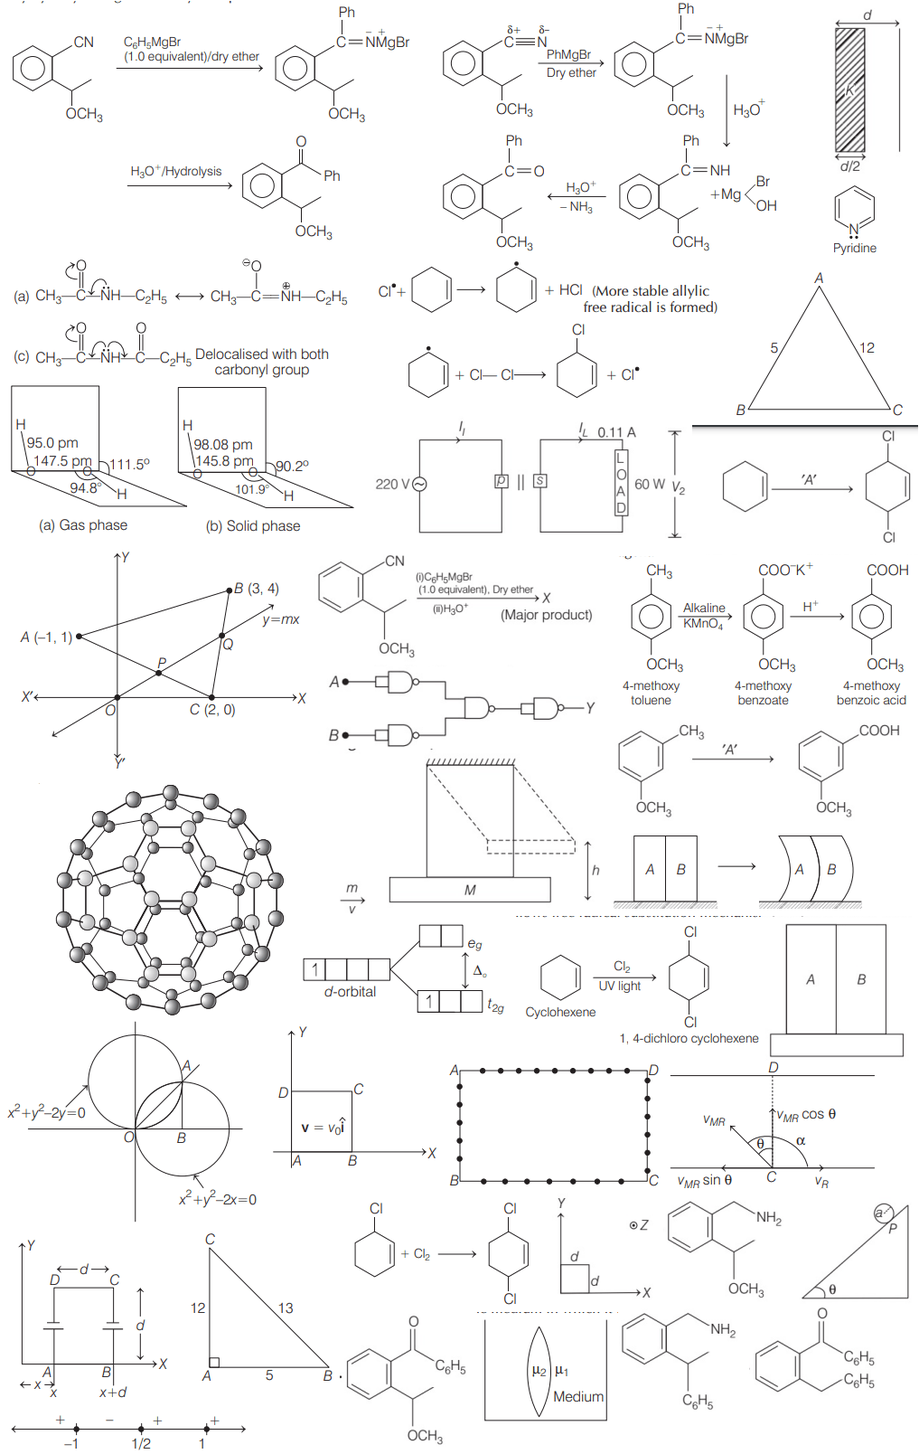
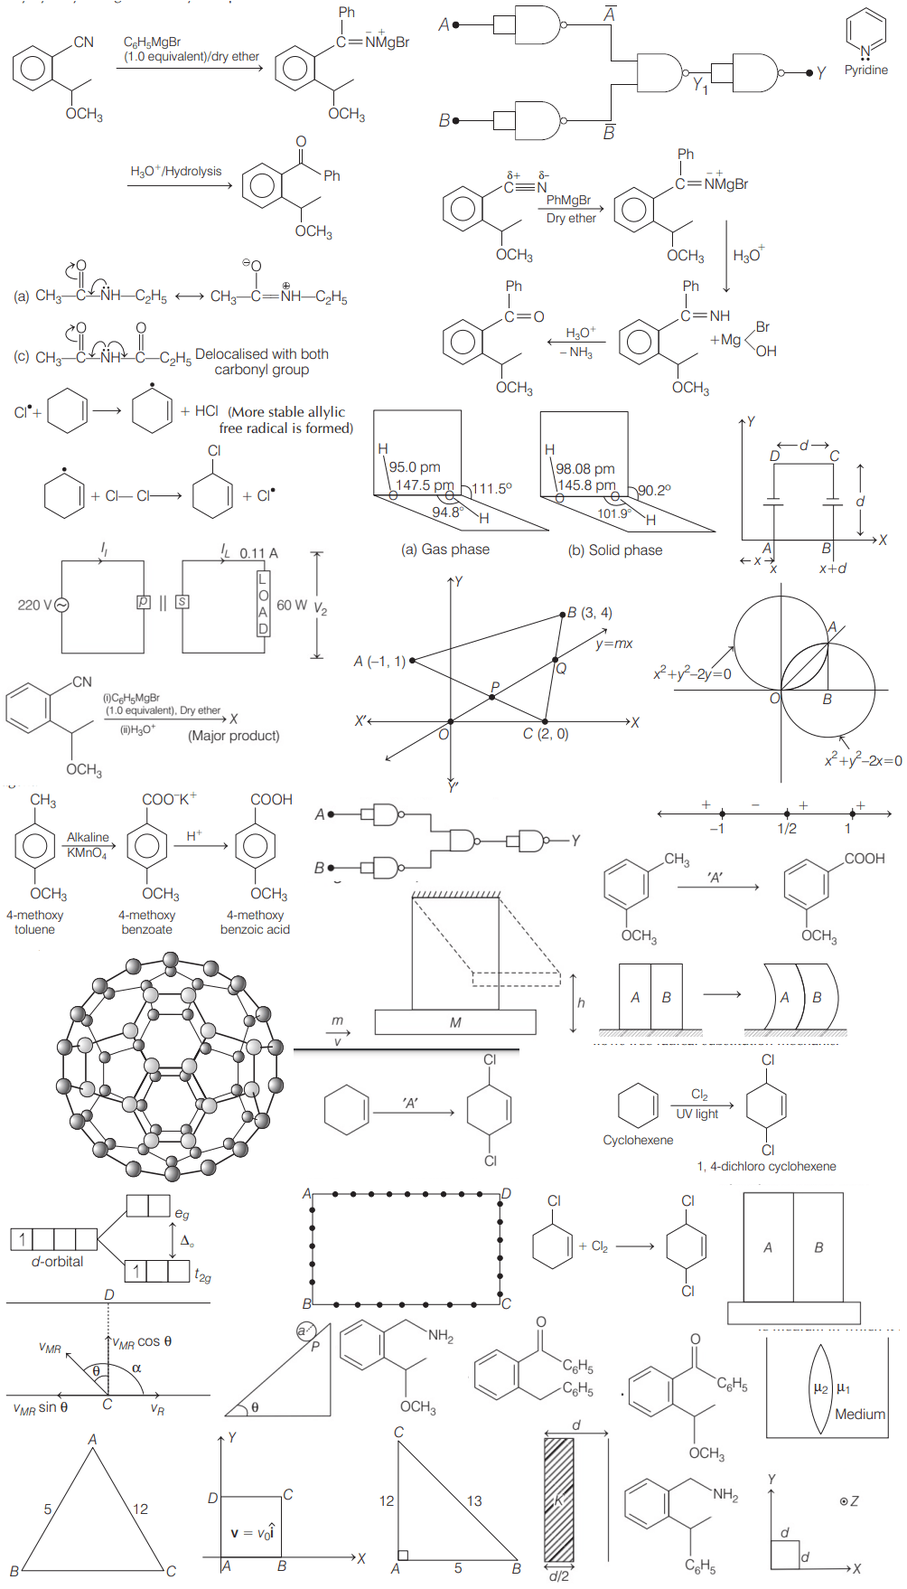
Fixed

diff --git a/img/jee/mains/prev/M2021Mar16_s2.css b/img/jee/mains/prev/M2021Mar16_s2.css
@@ -8,112 +8,115 @@ Responsive: <div class="yourspritesname"></div>
 
 
 .JEEM_16_Mar_S2_1 {max-width:329px; max-height:92px; }
-.JEEM_16_Mar_S2_1::after {content: '\00a0';display: inline-block; width:329px; height:92px; background-position: 50.43604651162791% 48.482849604221634%;background-size: 309.11854103343467% 1747.8260869565217%;background-image: url(M2021Mar16_s2-0.png);padding: 0; }
+.JEEM_16_Mar_S2_1::after {content: '\00a0';display: inline-block; width:329px; height:92px; background-position: 49.03703703703704% 52.94117647058823%;background-size: 305.1671732522796% 1910.8695652173913%;background-image: url(M2021Mar16_s2-0.png);padding: 0; }
 div.JEEM_16_Mar_S2_1::after {max-width:329px; width:100%;height:0;padding: 0 0 27.96352583586626% 0;}
 .JEEM_16_Mar_S2_11sol {max-width:159px; max-height:125px; }
-.JEEM_16_Mar_S2_11sol::after {content: '\00a0';display: inline-block; width:159px; height:125px; background-position: 61.18881118881119% 97.8422117329737%;background-size: 639.622641509434% 1286.4%;background-image: url(M2021Mar16_s2-0.png);padding: 0; }
+.JEEM_16_Mar_S2_11sol::after {content: '\00a0';display: inline-block; width:159px; height:125px; background-position: 99.05325443786982% 90.07960808328231%;background-size: 631.4465408805031% 1406.4%;background-image: url(M2021Mar16_s2-0.png);padding: 0; }
 div.JEEM_16_Mar_S2_11sol::after {max-width:159px; width:100%;height:0;padding: 0 0 78.61635220125787% 0;}
 .JEEM_16_Mar_S2_13 {max-width:166px; max-height:160px; }
-.JEEM_16_Mar_S2_13::after {content: '\00a0';display: inline-block; width:166px; height:160px; background-position: 99.05992949471211% 69.95856353591161%;background-size: 612.6506024096385% 1005%;background-image: url(M2021Mar16_s2-0.png);padding: 0; }
+.JEEM_16_Mar_S2_13::after {content: '\00a0';display: inline-block; width:166px; height:160px; background-position: 94.98806682577566% 81.97747183979975%;background-size: 604.8192771084338% 1098.75%;background-image: url(M2021Mar16_s2-0.png);padding: 0; }
 div.JEEM_16_Mar_S2_13::after {max-width:166px; width:100%;height:0;padding: 0 0 96.3855421686747% 0;}
 .JEEM_16_Mar_S2_13sol {max-width:297px; max-height:100px; }
-.JEEM_16_Mar_S2_13sol::after {content: '\00a0';display: inline-block; width:297px; height:100px; background-position: 93.33333333333333% 60.47745358090186%;background-size: 342.42424242424244% 1608%;background-image: url(M2021Mar16_s2-0.png);padding: 0; }
+.JEEM_16_Mar_S2_13sol::after {content: '\00a0';display: inline-block; width:297px; height:100px; background-position: 92.78642149929279% 63.57056694813028%;background-size: 338.04713804713805% 1758%;background-image: url(M2021Mar16_s2-0.png);padding: 0; }
 div.JEEM_16_Mar_S2_13sol::after {max-width:297px; width:100%;height:0;padding: 0 0 33.67003367003367% 0;}
 .JEEM_16_Mar_S2_17 {max-width:134px; max-height:122px; }
-.JEEM_16_Mar_S2_17::after {content: '\00a0';display: inline-block; width:134px; height:122px; background-position: 67.83691959229898% 88.69448183041723%;background-size: 758.955223880597% 1318.032786885246%;background-image: url(M2021Mar16_s2-0.png);padding: 0; }
+.JEEM_16_Mar_S2_17::after {content: '\00a0';display: inline-block; width:134px; height:122px; background-position: 95.63218390804597% 99.26650366748166%;background-size: 749.2537313432836% 1440.983606557377%;background-image: url(M2021Mar16_s2-0.png);padding: 0; }
 div.JEEM_16_Mar_S2_17::after {max-width:134px; width:100%;height:0;padding: 0 0 91.04477611940298% 0;}
 .JEEM_16_Mar_S2_17sol {max-width:198px; max-height:170px; }
-.JEEM_16_Mar_S2_17sol::after {content: '\00a0';display: inline-block; width:198px; height:170px; background-position: 35.28693528693529% 78.37273991655077%;background-size: 513.6363636363636% 945.8823529411765%;background-image: url(M2021Mar16_s2-0.png);padding: 0; }
+.JEEM_16_Mar_S2_17sol::after {content: '\00a0';display: inline-block; width:198px; height:170px; background-position: 26.17866004962779% 99.24433249370277%;background-size: 507.07070707070704% 1034.1176470588234%;background-image: url(M2021Mar16_s2-0.png);padding: 0; }
 div.JEEM_16_Mar_S2_17sol::after {max-width:198px; width:100%;height:0;padding: 0 0 85.85858585858585% 0;}
 .JEEM_16_Mar_S2_17sola {max-width:199px; max-height:194px; }
-.JEEM_16_Mar_S2_17sola::after {content: '\00a0';display: inline-block; width:199px; height:194px; background-position: 0.12224938875305623% 96.03960396039604%;background-size: 511.05527638190955% 828.8659793814433%;background-image: url(M2021Mar16_s2-0.png);padding: 0; }
+.JEEM_16_Mar_S2_17sola::after {content: '\00a0';display: inline-block; width:199px; height:194px; background-position: 99.1304347826087% 28.580562659846546%;background-size: 504.52261306532665% 906.1855670103092%;background-image: url(M2021Mar16_s2-0.png);padding: 0; }
 div.JEEM_16_Mar_S2_17sola::after {max-width:199px; width:100%;height:0;padding: 0 0 97.48743718592965% 0;}
+.JEEM_16_Mar_S2_1sol {max-width:452px; max-height:160px; }
+.JEEM_16_Mar_S2_1sol::after {content: '\00a0';display: inline-block; width:452px; height:160px; background-position: 84.60144927536231% 0.0625782227784731%;background-size: 222.12389380530973% 1098.75%;background-image: url(M2021Mar16_s2-0.png);padding: 0; }
+div.JEEM_16_Mar_S2_1sol::after {max-width:452px; width:100%;height:0;padding: 0 0 35.39823008849557% 0;}
 .JEEM_16_Mar_S2_2 {max-width:324px; max-height:184px; }
-.JEEM_16_Mar_S2_2::after {content: '\00a0';display: inline-block; width:324px; height:184px; background-position: 50.07215007215007% 58.146067415730336%;background-size: 313.8888888888889% 873.9130434782609%;background-image: url(M2021Mar16_s2-0.png);padding: 0; }
+.JEEM_16_Mar_S2_2::after {content: '\00a0';display: inline-block; width:324px; height:184px; background-position: 48.6764705882353% 61.944091486658195%;background-size: 309.87654320987656% 955.4347826086956%;background-image: url(M2021Mar16_s2-0.png);padding: 0; }
 div.JEEM_16_Mar_S2_2::after {max-width:324px; width:100%;height:0;padding: 0 0 56.79012345679013% 0;}
 .JEEM_16_Mar_S2_22 {max-width:102px; max-height:196px; }
-.JEEM_16_Mar_S2_22::after {content: '\00a0';display: inline-block; width:102px; height:196px; background-position: 99.1256830601093% 0.0708215297450425%;background-size: 997.0588235294117% 820.4081632653061%;background-image: url(M2021Mar16_s2-0.png);padding: 0; }
+.JEEM_16_Mar_S2_22::after {content: '\00a0';display: inline-block; width:102px; height:196px; background-position: 64.85587583148559% 99.93597951344431%;background-size: 984.3137254901961% 896.9387755102041%;background-image: url(M2021Mar16_s2-0.png);padding: 0; }
 div.JEEM_16_Mar_S2_22::after {max-width:102px; width:100%;height:0;padding: 0 0 192.15686274509804% 0;}
 .JEEM_16_Mar_S2_27sol {max-width:240px; max-height:149px; }
-.JEEM_16_Mar_S2_27sol::after {content: '\00a0';display: inline-block; width:240px; height:149px; background-position: 94.72329472329473% 80.46607265250171%;background-size: 423.75% 1079.1946308724832%;background-image: url(M2021Mar16_s2-0.png);padding: 0; }
+.JEEM_16_Mar_S2_27sol::after {content: '\00a0';display: inline-block; width:240px; height:149px; background-position: 0.13089005235602094% 88.62647607209446%;background-size: 418.3333333333333% 1179.8657718120805%;background-image: url(M2021Mar16_s2-0.png);padding: 0; }
 div.JEEM_16_Mar_S2_27sol::after {max-width:240px; width:100%;height:0;padding: 0 0 62.083333333333336% 0;}
 .JEEM_16_Mar_S2_29 {max-width:128px; max-height:120px; }
-.JEEM_16_Mar_S2_29::after {content: '\00a0';display: inline-block; width:128px; height:120px; background-position: 99.10011248593926% 88.97849462365592%;background-size: 794.53125% 1340%;background-image: url(M2021Mar16_s2-0.png);padding: 0; }
+.JEEM_16_Mar_S2_29::after {content: '\00a0';display: inline-block; width:128px; height:120px; background-position: 27.625570776255707% 88.82783882783883%;background-size: 784.375% 1465%;background-image: url(M2021Mar16_s2-0.png);padding: 0; }
 div.JEEM_16_Mar_S2_29::after {max-width:128px; width:100%;height:0;padding: 0 0 93.75% 0;}
 .JEEM_16_Mar_S2_32 {max-width:325px; max-height:125px; }
-.JEEM_16_Mar_S2_32::after {content: '\00a0';display: inline-block; width:325px; height:125px; background-position: 97.83236994219654% 53.000674308833446%;background-size: 312.9230769230769% 1286.4%;background-image: url(M2021Mar16_s2-0.png);padding: 0; }
+.JEEM_16_Mar_S2_32::after {content: '\00a0';display: inline-block; width:325px; height:125px; background-position: 97.34904270986745% 56.82792406613595%;background-size: 308.9230769230769% 1406.4%;background-image: url(M2021Mar16_s2-0.png);padding: 0; }
 div.JEEM_16_Mar_S2_32::after {max-width:325px; width:100%;height:0;padding: 0 0 38.46153846153846% 0;}
 .JEEM_16_Mar_S2_32sol {max-width:329px; max-height:170px; }
-.JEEM_16_Mar_S2_32sol::after {content: '\00a0';display: inline-block; width:329px; height:170px; background-position: 99.27325581395348% 42.767732962447845%;background-size: 309.11854103343467% 945.8823529411765%;background-image: url(M2021Mar16_s2-0.png);padding: 0; }
+.JEEM_16_Mar_S2_32sol::after {content: '\00a0';display: inline-block; width:329px; height:170px; background-position: 0.14814814814814814% 54.722921914357684%;background-size: 305.1671732522796% 1034.1176470588234%;background-image: url(M2021Mar16_s2-0.png);padding: 0; }
 div.JEEM_16_Mar_S2_32sol::after {max-width:329px; width:100%;height:0;padding: 0 0 51.671732522796354% 0;}
 .JEEM_16_Mar_S2_35 {max-width:250px; max-height:144px; }
-.JEEM_16_Mar_S2_35::after {content: '\00a0';display: inline-block; width:250px; height:144px; background-position: 99.86962190352021% 32.10382513661202%;background-size: 406.8% 1116.6666666666667%;background-image: url(M2021Mar16_s2-0.png);padding: 0; }
+.JEEM_16_Mar_S2_35::after {content: '\00a0';display: inline-block; width:250px; height:144px; background-position: 43.10344827586207% 71.87112763320941%;background-size: 401.6% 1220.8333333333333%;background-image: url(M2021Mar16_s2-0.png);padding: 0; }
 div.JEEM_16_Mar_S2_35::after {max-width:250px; width:100%;height:0;padding: 0 0 57.6% 0;}
 .JEEM_16_Mar_S2_35sol {max-width:272px; max-height:154px; }
-.JEEM_16_Mar_S2_35sol::after {content: '\00a0';display: inline-block; width:272px; height:154px; background-position: 76.51006711409396% 69.66987620357634%;background-size: 373.8970588235294% 1044.155844155844%;background-image: url(M2021Mar16_s2-0.png);padding: 0; }
+.JEEM_16_Mar_S2_35sol::after {content: '\00a0';display: inline-block; width:272px; height:154px; background-position: 89.61748633879782% 72.0074812967581%;background-size: 369.11764705882354% 1141.5584415584415%;background-image: url(M2021Mar16_s2-0.png);padding: 0; }
 div.JEEM_16_Mar_S2_35sol::after {max-width:272px; width:100%;height:0;padding: 0 0 56.61764705882353% 0;}
 .JEEM_16_Mar_S2_35sola {max-width:400px; max-height:166px; }
-.JEEM_16_Mar_S2_35sola::after {content: '\00a0';display: inline-block; width:400px; height:166px; background-position: 65.47811993517018% 19.83356449375867%;background-size: 254.25% 968.6746987951807%;background-image: url(M2021Mar16_s2-0.png);padding: 0; }
+.JEEM_16_Mar_S2_35sola::after {content: '\00a0';display: inline-block; width:400px; height:166px; background-position: 0.16556291390728478% 26.381909547738694%;background-size: 251% 1059.0361445783133%;background-image: url(M2021Mar16_s2-0.png);padding: 0; }
 div.JEEM_16_Mar_S2_35sola::after {max-width:400px; width:100%;height:0;padding: 0 0 41.5% 0;}
 .JEEM_16_Mar_S2_35solb {max-width:222px; max-height:132px; }
-.JEEM_16_Mar_S2_35solb::after {content: '\00a0';display: inline-block; width:222px; height:132px; background-position: 47.295597484276726% 89.29539295392954%;background-size: 458.1081081081081% 1218.1818181818182%;background-image: url(M2021Mar16_s2-0.png);padding: 0; }
+.JEEM_16_Mar_S2_35solb::after {content: '\00a0';display: inline-block; width:222px; height:132px; background-position: 73.27365728900256% 80.56580565805658%;background-size: 452.2522522522523% 1331.8181818181818%;background-image: url(M2021Mar16_s2-0.png);padding: 0; }
 div.JEEM_16_Mar_S2_35solb::after {max-width:222px; width:100%;height:0;padding: 0 0 59.45945945945946% 0;}
 .JEEM_16_Mar_S2_39sol {max-width:71px; max-height:92px; }
-.JEEM_16_Mar_S2_39sol::after {content: '\00a0';display: inline-block; width:71px; height:92px; background-position: 95.87737843551797% 13.060686015831134%;background-size: 1432.394366197183% 1747.8260869565217%;background-image: url(M2021Mar16_s2-0.png);padding: 0; }
+.JEEM_16_Mar_S2_39sol::after {content: '\00a0';display: inline-block; width:71px; height:92px; background-position: 98.60664523043944% 0.060024009603841535%;background-size: 1414.0845070422536% 1910.8695652173913%;background-image: url(M2021Mar16_s2-0.png);padding: 0; }
 div.JEEM_16_Mar_S2_39sol::after {max-width:71px; width:100%;height:0;padding: 0 0 129.57746478873239% 0;}
 .JEEM_16_Mar_S2_40sol {max-width:323px; max-height:271px; }
-.JEEM_16_Mar_S2_40sol::after {content: '\00a0';display: inline-block; width:323px; height:271px; background-position: 0.1440922190201729% 63.949139865370235%;background-size: 314.8606811145511% 593.3579335793358%;background-image: url(M2021Mar16_s2-0.png);padding: 0; }
+.JEEM_16_Mar_S2_40sol::after {content: '\00a0';display: inline-block; width:323px; height:271px; background-position: 0.14684287812041116% 69.9394754539341%;background-size: 310.8359133126935% 648.7084870848709%;background-image: url(M2021Mar16_s2-0.png);padding: 0; }
 div.JEEM_16_Mar_S2_40sol::after {max-width:323px; width:100%;height:0;padding: 0 0 83.90092879256966% 0;}
 .JEEM_16_Mar_S2_41sol {max-width:395px; max-height:175px; }
-.JEEM_16_Mar_S2_41sol::after {content: '\00a0';display: inline-block; width:395px; height:175px; background-position: 0.1607717041800643% 29.30914166085136%;background-size: 257.46835443037975% 918.8571428571429%;background-image: url(M2021Mar16_s2-0.png);padding: 0; }
+.JEEM_16_Mar_S2_41sol::after {content: '\00a0';display: inline-block; width:395px; height:175px; background-position: 66.00985221674877% 28.237523689197726%;background-size: 254.1772151898734% 1004.5714285714286%;background-image: url(M2021Mar16_s2-0.png);padding: 0; }
 div.JEEM_16_Mar_S2_41sol::after {max-width:395px; width:100%;height:0;padding: 0 0 44.30379746835443% 0;}
 .JEEM_16_Mar_S2_44sol {max-width:402px; max-height:138px; }
-.JEEM_16_Mar_S2_44sol::after {content: '\00a0';display: inline-block; width:402px; height:138px; background-position: 0.16260162601626016% 19.1156462585034%;background-size: 252.98507462686567% 1165.2173913043478%;background-image: url(M2021Mar16_s2-0.png);padding: 0; }
+.JEEM_16_Mar_S2_44sol::after {content: '\00a0';display: inline-block; width:402px; height:138px; background-position: 0.16611295681063123% 17.34567901234568%;background-size: 249.75124378109453% 1273.9130434782608%;background-image: url(M2021Mar16_s2-0.png);padding: 0; }
 div.JEEM_16_Mar_S2_44sol::after {max-width:402px; width:100%;height:0;padding: 0 0 34.32835820895522% 0;}
 .JEEM_16_Mar_S2_50 {max-width:335px; max-height:129px; }
-.JEEM_16_Mar_S2_50::after {content: '\00a0';display: inline-block; width:335px; height:129px; background-position: 50.87976539589443% 40.906017579445574%;background-size: 303.5820895522388% 1246.5116279069769%;background-image: url(M2021Mar16_s2-0.png);padding: 0; }
+.JEEM_16_Mar_S2_50::after {content: '\00a0';display: inline-block; width:335px; height:129px; background-position: 0.14947683109118087% 45.36525475751995%;background-size: 299.7014925373134% 1362.7906976744187%;background-image: url(M2021Mar16_s2-0.png);padding: 0; }
 div.JEEM_16_Mar_S2_50::after {max-width:335px; width:100%;height:0;padding: 0 0 38.507462686567166% 0;}
 .JEEM_16_Mar_S2_50a {max-width:143px; max-height:124px; }
-.JEEM_16_Mar_S2_50a::after {content: '\00a0';display: inline-block; width:143px; height:124px; background-position: 78.37528604118994% 97.10242587601078%;background-size: 711.1888111888112% 1296.774193548387%;background-image: url(M2021Mar16_s2-0.png);padding: 0; }
+.JEEM_16_Mar_S2_50a::after {content: '\00a0';display: inline-block; width:143px; height:124px; background-position: 79.90708478513356% 99.38800489596083%;background-size: 702.0979020979021% 1417.741935483871%;background-image: url(M2021Mar16_s2-0.png);padding: 0; }
 div.JEEM_16_Mar_S2_50a::after {max-width:143px; width:100%;height:0;padding: 0 0 86.7132867132867% 0;}
 .JEEM_16_Mar_S2_50b {max-width:146px; max-height:116px; }
-.JEEM_16_Mar_S2_50b::after {content: '\00a0';display: inline-block; width:146px; height:116px; background-position: 84.27095292766934% 88.73994638069705%;background-size: 696.5753424657535% 1386.2068965517242%;background-image: url(M2021Mar16_s2-0.png);padding: 0; }
+.JEEM_16_Mar_S2_50b::after {content: '\00a0';display: inline-block; width:146px; height:116px; background-position: 43.24009324009324% 88.61144945188794%;background-size: 687.6712328767123% 1515.5172413793102%;background-image: url(M2021Mar16_s2-0.png);padding: 0; }
 div.JEEM_16_Mar_S2_50b::after {max-width:146px; width:100%;height:0;padding: 0 0 79.45205479452055% 0;}
 .JEEM_16_Mar_S2_50c {max-width:152px; max-height:105px; }
-.JEEM_16_Mar_S2_50c::after {content: '\00a0';display: inline-block; width:152px; height:105px; background-position: 95.83815028901734% 96.1410512308716%;background-size: 669.078947368421% 1531.4285714285713%;background-image: url(M2021Mar16_s2-0.png);padding: 0; }
+.JEEM_16_Mar_S2_50c::after {content: '\00a0';display: inline-block; width:152px; height:105px; background-position: 60.798122065727696% 88.02177858439201%;background-size: 660.5263157894736% 1674.2857142857142%;background-image: url(M2021Mar16_s2-0.png);padding: 0; }
 div.JEEM_16_Mar_S2_50c::after {max-width:152px; width:100%;height:0;padding: 0 0 69.07894736842105% 0;}
 .JEEM_16_Mar_S2_50d {max-width:148px; max-height:152px; }
-.JEEM_16_Mar_S2_50d::after {content: '\00a0';display: inline-block; width:148px; height:152px; background-position: 43.26812428078251% 99.6565934065934%;background-size: 687.1621621621622% 1057.8947368421052%;background-image: url(M2021Mar16_s2-0.png);padding: 0; }
+.JEEM_16_Mar_S2_50d::after {content: '\00a0';display: inline-block; width:148px; height:152px; background-position: 80.37383177570094% 91.59402241594023%;background-size: 678.3783783783783% 1156.578947368421%;background-image: url(M2021Mar16_s2-0.png);padding: 0; }
 div.JEEM_16_Mar_S2_50d::after {max-width:148px; width:100%;height:0;padding: 0 0 102.70270270270271% 0;}
 .JEEM_16_Mar_S2_50sol {max-width:465px; max-height:279px; }
-.JEEM_16_Mar_S2_50sol::after {content: '\00a0';display: inline-block; width:465px; height:279px; background-position: 0.18115942028985507% 0.07524454477050414%;background-size: 218.70967741935485% 576.3440860215054%;background-image: url(M2021Mar16_s2-0.png);padding: 0; }
+.JEEM_16_Mar_S2_50sol::after {content: '\00a0';display: inline-block; width:465px; height:279px; background-position: 0.18552875695732837% 0.0676132521974307%;background-size: 215.91397849462365% 630.1075268817204%;background-image: url(M2021Mar16_s2-0.png);padding: 0; }
 div.JEEM_16_Mar_S2_50sol::after {max-width:465px; width:100%;height:0;padding: 0 0 60% 0;}
 .JEEM_16_Mar_S2_50sola {max-width:439px; max-height:284px; }
-.JEEM_16_Mar_S2_50sola::after {content: '\00a0';display: inline-block; width:439px; height:284px; background-position: 80.79584775086505% 0.0755287009063444%;background-size: 231.6628701594533% 566.1971830985915%;background-image: url(M2021Mar16_s2-0.png);padding: 0; }
+.JEEM_16_Mar_S2_50sola::after {content: '\00a0';display: inline-block; width:439px; height:284px; background-position: 82.65486725663717% 10.990502035278155%;background-size: 228.7015945330296% 619.0140845070423%;background-image: url(M2021Mar16_s2-0.png);padding: 0; }
 div.JEEM_16_Mar_S2_50sola::after {max-width:439px; width:100%;height:0;padding: 0 0 64.69248291571753% 0;}
 .JEEM_16_Mar_S2_60sol {max-width:244px; max-height:113px; }
-.JEEM_16_Mar_S2_60sol::after {content: '\00a0';display: inline-block; width:244px; height:113px; background-position: 42.04398447606727% 67.75919732441471%;background-size: 416.8032786885246% 1423.0088495575221%;background-image: url(M2021Mar16_s2-0.png);padding: 0; }
+.JEEM_16_Mar_S2_60sol::after {content: '\00a0';display: inline-block; width:244px; height:113px; background-position: 0.13157894736842105% 79.75683890577507%;background-size: 411.4754098360656% 1555.7522123893805%;background-image: url(M2021Mar16_s2-0.png);padding: 0; }
 div.JEEM_16_Mar_S2_60sol::after {max-width:244px; width:100%;height:0;padding: 0 0 46.31147540983606% 0;}
 .JEEM_16_Mar_S2_71sol {max-width:247px; max-height:149px; }
-.JEEM_16_Mar_S2_71sol::after {content: '\00a0';display: inline-block; width:247px; height:149px; background-position: 63.37662337662338% 80.05483207676491%;background-size: 411.7408906882591% 1079.1946308724832%;background-image: url(M2021Mar16_s2-0.png);padding: 0; }
+.JEEM_16_Mar_S2_71sol::after {content: '\00a0';display: inline-block; width:247px; height:149px; background-position: 42.932628797886395% 81.10627719080173%;background-size: 406.47773279352225% 1179.8657718120805%;background-image: url(M2021Mar16_s2-0.png);padding: 0; }
 div.JEEM_16_Mar_S2_71sol::after {max-width:247px; width:100%;height:0;padding: 0 0 60.32388663967611% 0;}
 .JEEM_16_Mar_S2_74sol {max-width:345px; max-height:258px; }
-.JEEM_16_Mar_S2_74sol::after {content: '\00a0';display: inline-block; width:345px; height:258px; background-position: 0.1488095238095238% 44.148148148148145%;background-size: 294.7826086956522% 623.2558139534884%;background-image: url(M2021Mar16_s2-0.png);padding: 0; }
+.JEEM_16_Mar_S2_74sol::after {content: '\00a0';display: inline-block; width:345px; height:258px; background-position: 56.14567526555387% 41.53333333333333%;background-size: 291.0144927536232% 681.3953488372093%;background-image: url(M2021Mar16_s2-0.png);padding: 0; }
 div.JEEM_16_Mar_S2_74sol::after {max-width:345px; width:100%;height:0;padding: 0 0 74.78260869565217% 0;}
 .JEEM_16_Mar_S2_75sol {max-width:283px; max-height:54px; }
-.JEEM_16_Mar_S2_75sol::after {content: '\00a0';display: inline-block; width:283px; height:54px; background-position: 0.1362397820163488% 99.93564993564993%;background-size: 359.36395759717317% 2977.777777777778%;background-image: url(M2021Mar16_s2-0.png);padding: 0; }
+.JEEM_16_Mar_S2_75sol::after {content: '\00a0';display: inline-block; width:283px; height:54px; background-position: 99.30651872399446% 51.232394366197184%;background-size: 354.77031802120143% 3255.5555555555557%;background-image: url(M2021Mar16_s2-0.png);padding: 0; }
 div.JEEM_16_Mar_S2_75sol::after {max-width:283px; width:100%;height:0;padding: 0 0 19.081272084805654% 0;}
 .JEEM_16_Mar_S2_79sol {max-width:287px; max-height:230px; }
-.JEEM_16_Mar_S2_79sol::after {content: '\00a0';display: inline-block; width:287px; height:230px; background-position: 0.136986301369863% 81.78519593613933%;background-size: 354.35540069686414% 699.1304347826087%;background-image: url(M2021Mar16_s2-0.png);padding: 0; }
+.JEEM_16_Mar_S2_79sol::after {content: '\00a0';display: inline-block; width:287px; height:230px; background-position: 99.860529986053% 42.01570680628272%;background-size: 349.8257839721254% 764.3478260869565%;background-image: url(M2021Mar16_s2-0.png);padding: 0; }
 div.JEEM_16_Mar_S2_79sol::after {max-width:287px; width:100%;height:0;padding: 0 0 80.13937282229965% 0;}
 .JEEM_16_Mar_S2_8 {max-width:368px; max-height:151px; }
-.JEEM_16_Mar_S2_8::after {content: '\00a0';display: inline-block; width:368px; height:151px; background-position: 61.17103235747304% 31.091283459162664%;background-size: 276.35869565217394% 1064.9006622516556%;background-image: url(M2021Mar16_s2-0.png);padding: 0; }
+.JEEM_16_Mar_S2_8::after {content: '\00a0';display: inline-block; width:368px; height:151px; background-position: 0.15723270440251572% 36.52769135034225%;background-size: 272.82608695652175% 1164.2384105960266%;background-image: url(M2021Mar16_s2-0.png);padding: 0; }
 div.JEEM_16_Mar_S2_8::after {max-width:368px; width:100%;height:0;padding: 0 0 41.03260869565217% 0;}
 .JEEM_16_Mar_S2_87sol {max-width:209px; max-height:178px; }
-.JEEM_16_Mar_S2_87sol::after {content: '\00a0';display: inline-block; width:209px; height:178px; background-position: 99.62871287128714% 20.34965034965035%;background-size: 486.60287081339715% 903.370786516854%;background-image: url(M2021Mar16_s2-0.png);padding: 0; }
+.JEEM_16_Mar_S2_87sol::after {content: '\00a0';display: inline-block; width:209px; height:178px; background-position: 0.12578616352201258% 99.74683544303798%;background-size: 480.38277511961724% 987.6404494382023%;background-image: url(M2021Mar16_s2-0.png);padding: 0; }
 div.JEEM_16_Mar_S2_87sol::after {max-width:209px; width:100%;height:0;padding: 0 0 85.16746411483254% 0;}
 .JEEM_16_Mar_S2_87sola {max-width:174px; max-height:183px; }
-.JEEM_16_Mar_S2_87sola::after {content: '\00a0';display: inline-block; width:174px; height:183px; background-position: 23.843416370106763% 95.29824561403508%;background-size: 584.4827586206897% 878.688524590164%;background-image: url(M2021Mar16_s2-0.png);padding: 0; }
+.JEEM_16_Mar_S2_87sola::after {content: '\00a0';display: inline-block; width:174px; height:183px; background-position: 49.397590361445786% 99.80952380952381%;background-size: 577.0114942528736% 960.655737704918%;background-image: url(M2021Mar16_s2-0.png);padding: 0; }
 div.JEEM_16_Mar_S2_87sola::after {max-width:174px; width:100%;height:0;padding: 0 0 105.17241379310344% 0;}
 
-/* $TexturePacker:SmartUpdate:d57148d1aaa75b8a6292463f9cb764e6:56d69b5985cea899b4fa28a3854ccdda:a406ed266c3750e23f8587e33cbb948d$ */
+/* $TexturePacker:SmartUpdate:e1c001af19bb9358dbc1c4d9196f3a36:a7d070c05f793a89d5609e8b0587d99e:a406ed266c3750e23f8587e33cbb948d$ */
